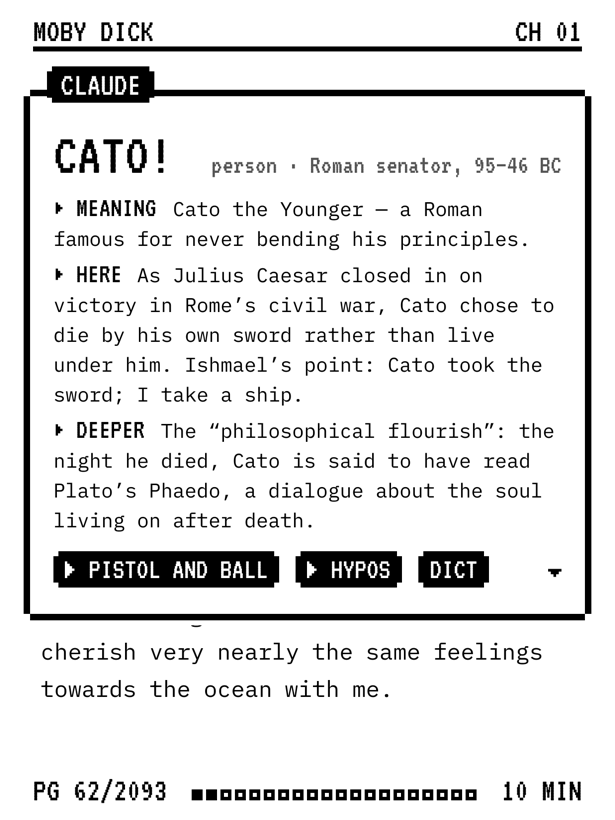
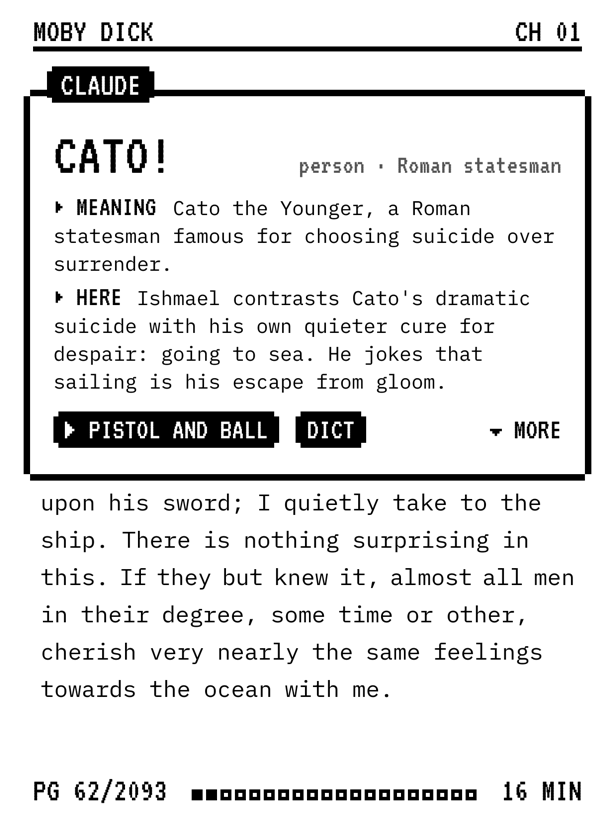
Explain: real-use polish; library: hide folders in status tabs
- Sonnet 5.5 is the default model; tighter prompt (no repeats, word limits,
  better related words); answers cache keyed by prompt version
- Explain box: MEANING + HERE first, ▼ MORE reveals DEEPER; buttons never
  overflow or hit the arrow; box stays above the footer; picked word drawn
  white-on-black instead of the engine's grey selection
- pixel font: no fallback ligatures ("fi")
- READING/DONE/NEW tabs show books only (no "0 ITEMS" folders)
- run-mac.sh force-stops an older simulator; dev explain-test helper

diff --git a/README.md b/README.md
@@ -25,7 +25,7 @@ sentence of that book*.
   header with the title and chapter, and a footer with the page, one square
   per page of the chapter, and minutes left.
 - **Explain:** long-press a word. A "CLAUDE" box shows MEANING / HERE / DEEPER
-  and two related words you can tap. DICT opens the normal dictionary. To
+  (tap ▼ MORE for DEEPER) and related words you can tap. DICT opens the normal dictionary. To
   explain a phrase, select several words and pick **Explain**.
 - **OPTIONS** (tap the bottom of the page): font, size and spacing with ◀ ▶,
   plus CONTENTS / BOOKMARKS / SEARCH. ALL SETTINGS opens KOReader's full panel.
@@ -69,9 +69,9 @@ You need a jailbroken Kindle with KUAL and MRPI (see <https://kindlemodding.org>
 
 ## Explain and Claude
 
-- Each new word is one request to the Claude API: Claude Opus 5.5 by default,
+- Each new word is one request to the Claude API: Claude Sonnet 5.5 by default,
   effort "low", answering as JSON that follows a fixed schema. You can switch to
-  Sonnet 5.5 or Haiku 5.5 in the menu.
+  Opus 5.5 or Haiku 5.5 in the menu.
 - Answers are saved per book and word, so looking a word up again is free and
   works offline.
 - Requests send `fallbacks: "default"`: if a model declines, another one answers.
